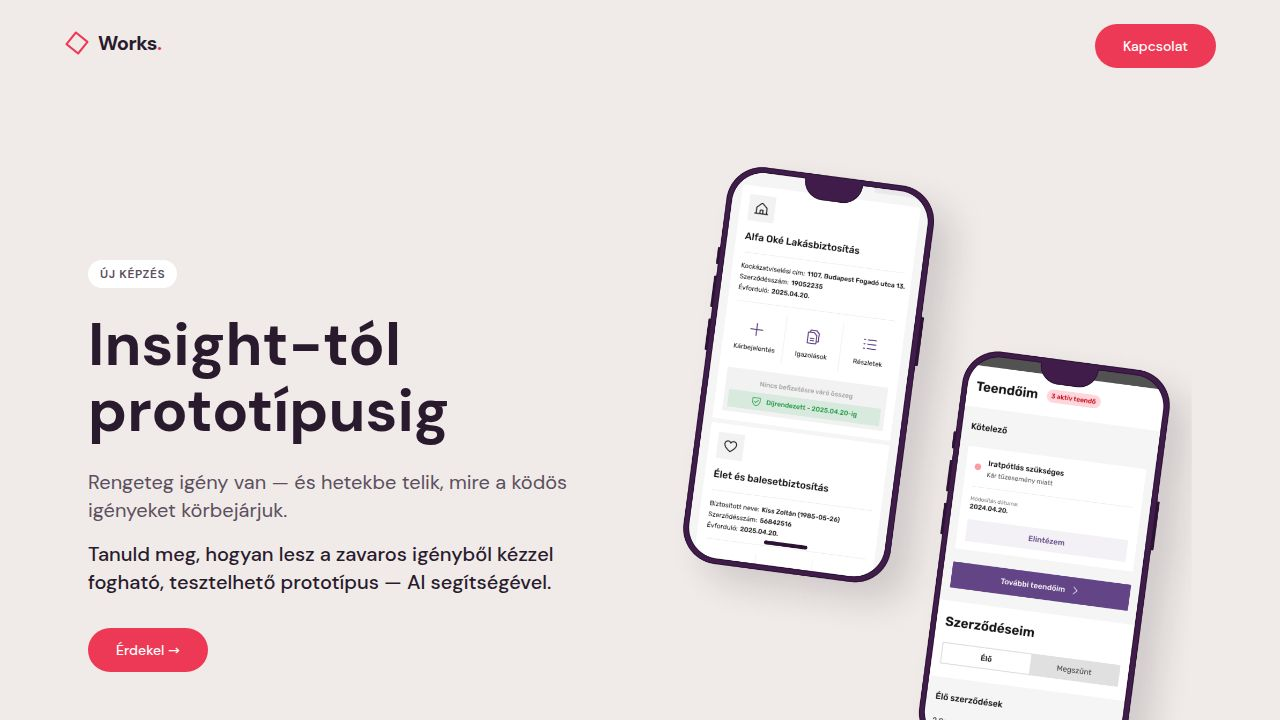
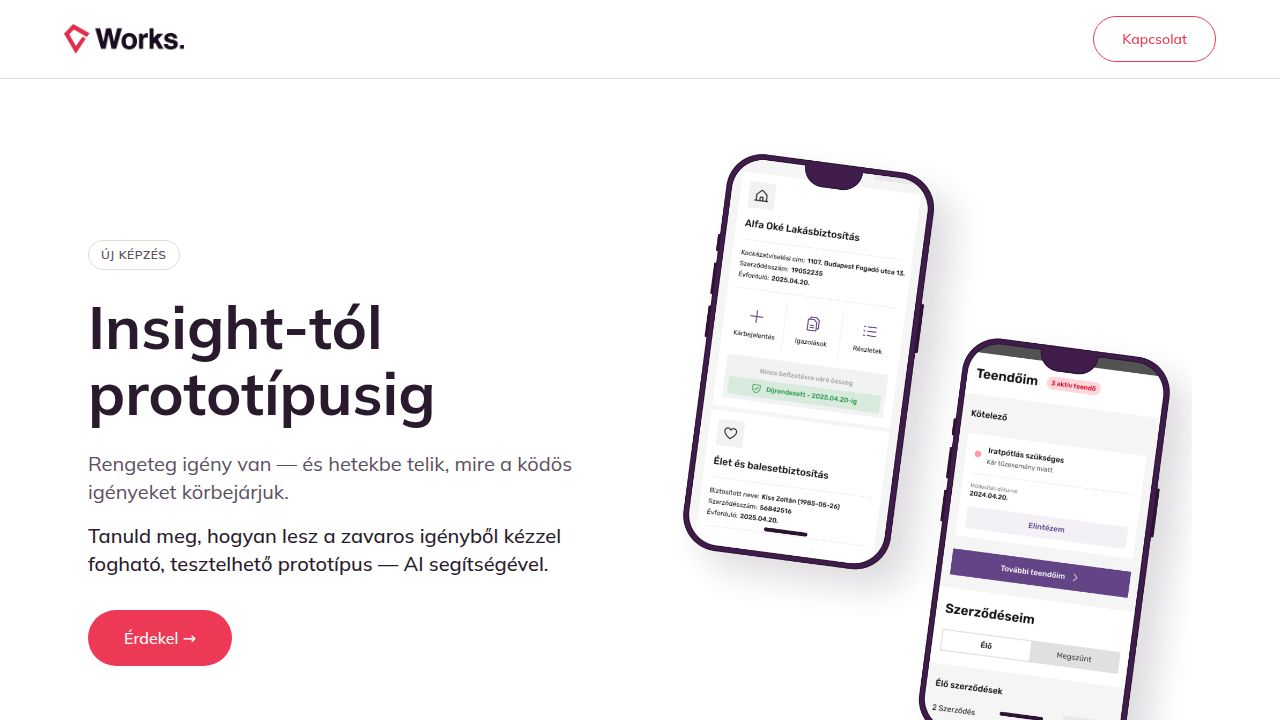
Task #13: Landing vizuális polish (works-landing)
Original task: tipográfia + brand finomítás + hierarchia rendezés a Works.
"Insight-tól prototípusig" landing oldalon.

Implementált változások:
- Asset: attached_assets/New_logo_1779278286877.png → public/images/works-logo.png
- Font csere: DM Sans → Mulish (Google Fonts) az index.html-ben; root
  div font-['Mulish'] osztály.
- Logo komponens: inline SVG gyémánt+wordmark helyett <img> PNG-vel.
  variant="light" CSS filter: brightness(0) invert(1) (footer fehér logo,
  külön asset nélkül).
- Pill komponensek: új `variant` ("primary" | "outline") és `size`
  ("md" | "lg") prop. Outline = átlátszó bg, coral border + coral szöveg,
  hover halvány coralSoft háttér.
- Header: sticky top-0 z-50, rgba(255,255,255,0.85) + backdrop-blur,
  hairline border-bottom. Kapcsolat gomb outline variant.
- Hero: warm bg + slantBottom törölve (fehér). "Új képzés" badge hairline
  1px border. "Érdekel →" CTA size="lg" (px-9 py-4 text-base).
- "Kinek szól?": warm bg, -mt-10 overlap törölve. Kártyák fehér háttér +
  6px coral bal border (warm kártyák helyett).
- "Három alkalom": em-dash helyett <Diamond/> komponens — 10×10px coral
  div, rotate(45deg), marginTop 0.55em az első sor közepére.
- "Ez nem AI-tréning" / Bottom CTA / Footer: slantTop / slantBottom és
  -mt-10 overlapek mind törölve. Szekciók egyenes vágásúak.
- index.html lang="en" → lang="hu" (code review nit, magyar tartalom).

Deviáció a planhez: nincs lényegi eltérés. A Mulish font 800 weight is
[…]

diff --git a/artifacts/works-landing/src/App.tsx b/artifacts/works-landing/src/App.tsx
@@ -3,6 +3,7 @@ import React from "react";
 const COLORS = {
   coral: "#EE3956",
   coralHover: "#D62E48",
+  coralSoft: "#FCE3E7",
   dark: "#2A1A2E",
   muted: "#5C4F5F",
   warm: "#F0EBE8",
@@ -11,115 +12,151 @@ const COLORS = {
 
 const PROTO_IMG = `${import.meta.env.BASE_URL}images/proto_mockup.png`;
 const TARGYALO_IMG = `${import.meta.env.BASE_URL}images/targyalo.jpg`;
+const LOGO_IMG = `${import.meta.env.BASE_URL}images/works-logo.png`;
 
 function Logo({ size = "md", variant = "dark" }: { size?: "md" | "lg"; variant?: "dark" | "light" }) {
-  const wordmarkClass = size === "lg" ? "text-2xl" : "text-xl";
-  const diamondSize = size === "lg" ? 30 : 26;
-  const wordmarkColor = variant === "light" ? "#FFFFFF" : COLORS.dark;
+  const heightPx = size === "lg" ? 36 : 30;
   return (
-    <span className="inline-flex items-center gap-2">
-      <svg
-        width={diamondSize}
-        height={diamondSize}
-        viewBox="0 0 32 32"
-        fill="none"
-        style={{ transform: "rotate(-6deg)" }}
-        aria-hidden="true"
-      >
-        <path
-          d="M16 3 L29 16 L16 29 L3 16 Z"
-          stroke={COLORS.coral}
-          strokeWidth="2.5"
-          strokeLinejoin="round"
-          fill="none"
-        />
-      </svg>
-      <span className={`${wordmarkClass} font-bold tracking-tight`} style={{ color: wordmarkColor }}>
-        Works<span style={{ color: COLORS.coral }}>.</span>
-      </span>
-    </span>
+    <img
+      src={LOGO_IMG}
+      alt="Works."
+      style={{
+        height: heightPx,
+        width: "auto",
+        display: "block",
+        filter: variant === "light" ? "brightness(0) invert(1)" : undefined,
+      }}
+    />
   );
 }
 
-const pillButton =
-  "inline-flex items-center justify-center gap-2 rounded-full px-7 py-3 text-sm font-medium text-white transition-colors";
-const pillButtonStyle: React.CSSProperties = { backgroundColor: COLORS.coral };
+const pillBase =
+  "inline-flex items-center justify-center gap-2 rounded-full font-medium transition-colors";
+const pillSizes = {
+  md: "px-7 py-3 text-sm",
+  lg: "px-9 py-4 text-base",
+};
 
-function PillButton(props: React.ButtonHTMLAttributes<HTMLButtonElement>) {
-  const { className = "", style, onMouseEnter, onMouseLeave, ...rest } = props;
+type PillVariant = "primary" | "outline";
+
+function pillStyleFor(variant: PillVariant): React.CSSProperties {
+  if (variant === "outline") {
+    return {
+      backgroundColor: "transparent",
+      color: COLORS.coral,
+      border: `1.5px solid ${COLORS.coral}`,
+    };
+  }
+  return { backgroundColor: COLORS.coral, color: "#FFFFFF" };
+}
+
+function applyPillHover(el: HTMLElement, variant: PillVariant, hovered: boolean) {
+  if (variant === "outline") {
+    el.style.backgroundColor = hovered ? COLORS.coralSoft : "transparent";
+  } else {
+    el.style.backgroundColor = hovered ? COLORS.coralHover : COLORS.coral;
+  }
+}
+
+interface PillExtra {
+  variant?: PillVariant;
+  size?: keyof typeof pillSizes;
+}
+
+function PillButton(
+  props: React.ButtonHTMLAttributes<HTMLButtonElement> & PillExtra,
+) {
+  const { className = "", style, variant = "primary", size = "md", onMouseEnter, onMouseLeave, ...rest } = props;
   return (
     <button
       {...rest}
-      className={`${pillButton} ${className}`}
-      style={{ ...pillButtonStyle, ...style }}
+      className={`${pillBase} ${pillSizes[size]} ${className}`}
+      style={{ ...pillStyleFor(variant), ...style }}
       onMouseEnter={(e) => {
-        (e.currentTarget as HTMLButtonElement).style.backgroundColor = COLORS.coralHover;
+        applyPillHover(e.currentTarget, variant, true);
         onMouseEnter?.(e);
       }}
       onMouseLeave={(e) => {
-        (e.currentTarget as HTMLButtonElement).style.backgroundColor = COLORS.coral;
+        applyPillHover(e.currentTarget, variant, false);
         onMouseLeave?.(e);
       }}
     />
   );
 }
 
-function PillLink(props: React.AnchorHTMLAttributes<HTMLAnchorElement>) {
-  const { className = "", style, onMouseEnter, onMouseLeave, ...rest } = props;
+function PillLink(
+  props: React.AnchorHTMLAttributes<HTMLAnchorElement> & PillExtra,
+) {
+  const { className = "", style, variant = "primary", size = "md", onMouseEnter, onMouseLeave, ...rest } = props;
   return (
     <a
       {...rest}
-      className={`${pillButton} ${className}`}
-      style={{ ...pillButtonStyle, ...style }}
+      className={`${pillBase} ${pillSizes[size]} ${className}`}
+      style={{ ...pillStyleFor(variant), ...style }}
       onMouseEnter={(e) => {
-        (e.currentTarget as HTMLAnchorElement).style.backgroundColor = COLORS.coralHover;
+        applyPillHover(e.currentTarget, variant, true);
         onMouseEnter?.(e);
       }}
       onMouseLeave={(e) => {
-        (e.currentTarget as HTMLAnchorElement).style.backgroundColor = COLORS.coral;
+        applyPillHover(e.currentTarget, variant, false);
         onMouseLeave?.(e);
+      }}
+    />
+  );
+}
+
+function Diamond() {
+  return (
+    <span
+      aria-hidden="true"
+      className="inline-block shrink-0"
+      style={{
+        width: 10,
+        height: 10,
+        backgroundColor: COLORS.coral,
+        transform: "rotate(45deg)",
+        marginTop: "0.55em",
       }}
     />
   );
 }
 
 function Landing() {
-  const slantBottom: React.CSSProperties = {
-    clipPath: "polygon(0 0, 100% 0, 100% calc(100% - 60px), 0 100%)",
-  };
-  const slantTop: React.CSSProperties = {
-    clipPath: "polygon(0 60px, 100% 0, 100% 100%, 0 100%)",
-  };
-
   return (
     <div
-      className="font-['DM_Sans'] antialiased min-h-screen"
+      className="font-['Mulish'] antialiased min-h-screen"
       style={{ backgroundColor: "#FFFFFF", color: COLORS.dark }}
     >
-      {/* Navigation */}
+      {/* Navigation — sticky */}
       <nav
-        className="relative z-10 px-6 py-6"
-        style={{ backgroundColor: COLORS.warm }}
+        className="sticky top-0 z-50 px-6 py-4 backdrop-blur"
+        style={{
+          backgroundColor: "rgba(255,255,255,0.85)",
+          borderBottom: `1px solid ${COLORS.hairline}`,
+        }}
       >
         <div className="max-w-6xl mx-auto flex items-center justify-between">
           <a href="https://worksdot.hu" aria-label="Works.">
             <Logo />
           </a>
-          <PillLink href="https://worksdot.hu/contact">Kapcsolat</PillLink>
+          <PillLink href="https://worksdot.hu/contact" variant="outline">
+            Kapcsolat
+          </PillLink>
         </div>
       </nav>
 
-      {/* Hero Section — warm bg with slanted bottom */}
-      <section
-        className="relative pt-10 pb-20 md:pt-14 md:pb-24"
-        style={{ backgroundColor: COLORS.warm, ...slantBottom }}
-      >
+      {/* Hero Section — white, no slant */}
+      <section className="relative pt-10 pb-16 md:pt-14 md:pb-20 bg-white">
         <div className="max-w-6xl mx-auto px-6">
           <div className="grid md:grid-cols-2 gap-10 md:gap-10 items-center">
             <div className="max-w-xl">
               <span
                 className="inline-block text-xs font-semibold px-3 py-1.5 rounded-full mb-6 uppercase tracking-wider"
-                style={{ backgroundColor: "#FFFFFF", color: COLORS.muted }}
+                style={{
+                  backgroundColor: "#FFFFFF",
+                  color: COLORS.muted,
+                  border: `1px solid ${COLORS.hairline}`,
+                }}
               >
                 Új képzés
               </span>
@@ -138,7 +175,7 @@ function Landing() {
               >
                 Tanuld meg, hogyan lesz a zavaros igényből kézzel fogható, tesztelhető prototípus — AI segítségével.
               </p>
-              <PillLink href="#cta">Érdekel →</PillLink>
+              <PillLink href="#cta" size="lg">Érdekel →</PillLink>
             </div>
             <div className="flex justify-center md:justify-end">
               <img
@@ -151,8 +188,8 @@ function Landing() {
         </div>
       </section>
 
-      {/* Kinek szól? — white, flush */}
-      <section className="bg-white py-14 md:py-20 -mt-10 relative">
+      {/* Kinek szól? — warm bg */}
+      <section className="py-14 md:py-20" style={{ backgroundColor: COLORS.warm }}>
         <div className="max-w-6xl mx-auto px-6">
           <h2
             className="text-3xl md:text-4xl font-bold mb-10"
@@ -177,8 +214,8 @@ function Landing() {
             ].map((card) => (
               <div
                 key={card.t}
-                className="p-8 rounded-lg"
-                style={{ backgroundColor: COLORS.warm }}
+                className="p-8 rounded-lg bg-white"
+                style={{ borderLeft: `6px solid ${COLORS.coral}` }}
               >
                 <h3
                   className="text-lg font-semibold mb-3"
@@ -196,7 +233,7 @@ function Landing() {
       </section>
 
       {/* Három alkalom, három szint — white */}
-      <section className="py-14 md:py-20">
+      <section className="py-14 md:py-20 bg-white">
         <div className="max-w-6xl mx-auto px-6">
           <div className="max-w-3xl mb-12">
             <h2
@@ -271,7 +308,7 @@ function Landing() {
                     <ul className="space-y-4 text-base md:text-lg" style={{ color: COLORS.muted }}>
                       {step.bullets.map((b, j) => (
                         <li key={j} className="flex gap-4">
-                          <span style={{ color: COLORS.coral }}>—</span>
+                          <Diamond />
                           <span>{b}</span>
                         </li>
                       ))}
@@ -287,10 +324,10 @@ function Landing() {
         </div>
       </section>
 
-      {/* Ez nem AI-tréning — dark aubergine, slanted top */}
+      {/* Ez nem AI-tréning — dark aubergine */}
       <section
-        className="py-16 md:py-24 text-white relative"
-        style={{ backgroundColor: COLORS.dark, ...slantTop }}
+        className="py-16 md:py-24 text-white"
+        style={{ backgroundColor: COLORS.dark }}
       >
         <div className="max-w-4xl mx-auto px-6">
           <h2 className="text-3xl md:text-4xl font-bold mb-10">Ez nem AI-tréning</h2>
@@ -381,11 +418,11 @@ function Landing() {
         </div>
       </section>
 
-      {/* Bottom CTA — warm bg, slanted bottom into dark footer */}
+      {/* Bottom CTA — warm bg */}
       <section
         id="cta"
-        className="py-16 md:py-24 text-center px-6 relative"
-        style={{ backgroundColor: COLORS.warm, ...slantBottom }}
+        className="py-16 md:py-24 text-center px-6"
+        style={{ backgroundColor: COLORS.warm }}
       >
         <div className="max-w-2xl mx-auto">
           <h2
@@ -426,7 +463,7 @@ function Landing() {
 
       {/* Footer */}
       <footer
-        className="pt-16 pb-12 px-6 text-white -mt-10 relative"
+        className="pt-16 pb-12 px-6 text-white"
         style={{ backgroundColor: COLORS.dark }}
       >
         <div className="max-w-6xl mx-auto">

diff --git a/artifacts/works-landing/index.html b/artifacts/works-landing/index.html
@@ -1,5 +1,5 @@
 <!DOCTYPE html>
-<html lang="en">
+<html lang="hu">
   <head>
     <meta charset="UTF-8" />
     <meta name="viewport" content="width=device-width, initial-scale=1.0, maximum-scale=1" />
@@ -15,7 +15,7 @@
     <link rel="icon" type="image/svg+xml" href="/favicon.svg" />
     <link rel="preconnect" href="https://fonts.googleapis.com">
     <link rel="preconnect" href="https://fonts.gstatic.com" crossorigin>
-    <link href="https://fonts.googleapis.com/css2?family=DM+Sans:wght@400;500;600;700&display=swap" rel="stylesheet">
+    <link href="https://fonts.googleapis.com/css2?family=Mulish:wght@400;500;600;700;800&display=swap" rel="stylesheet">
   </head>
   <body>
     <div id="root"></div>
